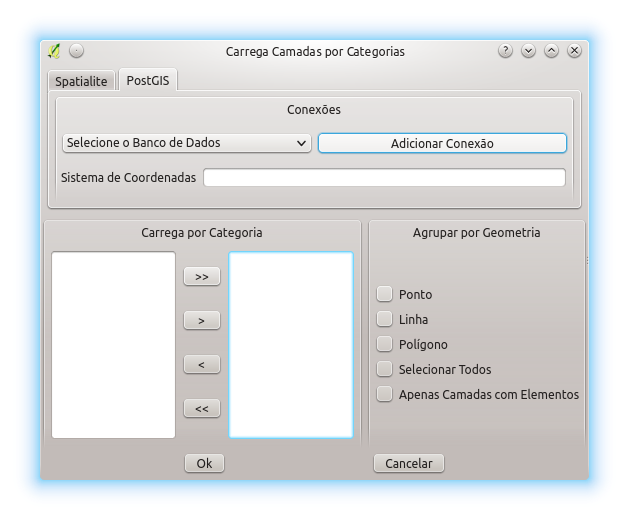
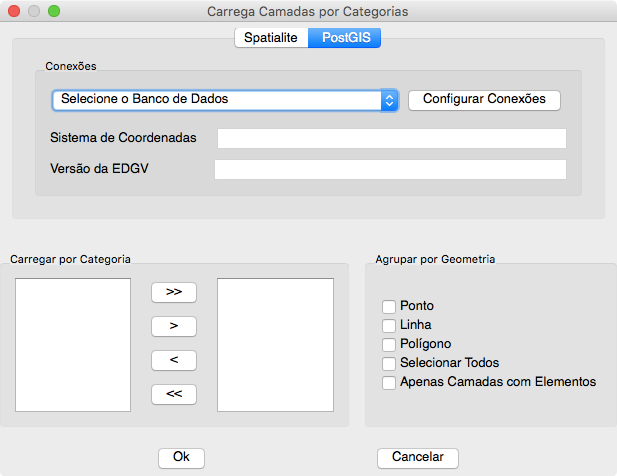
New help

diff --git a/help/explorar_servidor.html b/help/explorar_servidor.html
@@ -1,0 +1,84 @@
+<!DOCTYPE html PUBLIC "-//W3C//DTD XHTML 1.0 Transitional//EN" "http://www.w3.org/TR/xhtml1/DTD/xhtml1-transitional.dtd">
+<html xmlns="http://www.w3.org/1999/xhtml">
+<head>
+    <meta http-equiv="Content-Type" content="text/html; charset=utf-8" />
+    <meta charset="utf-8" />
+	<meta name="viewport" content="width=device-width, initial-scale=1">
+  	
+	<title>Catálogo de Servidores</title>
+    
+    <link rel="stylesheet" href="css/bootstrap.css">
+	<link rel="stylesheet" href="everydayimstyling.css" />
+</head>
+
+<body>
+	
+    <h2>
+    	Catálogo de Servidores <small>Explorar Servidor</small>
+    </h2>
+
+	<p align="justify">
+		Um administrador de bancos de dados pode desejar verificar informações de bancos de dados EDGV criados pelo DsgTools.
+        O <kbd>Explorar Servidor</kbd> permite que seja possível verificar quais modelos de permissões estão instalados nos bancos de dados,
+        permite verificar os detalhes de cada permissão e ainda permite que sejam apagados os bancos de dados.
+	</p>
+	<p align="justify">
+		A janela a seguir mostra o estado inicial da ferramenta.
+	</p>
+		
+	<p align="center">
+		<img src='dsg_tools/explorar_servidor01.png' name='figuras1' border=0 alt='Erro ao mostrar a imagem'>
+	</p>
+    
+    <p align="justify">
+    	Para utilizar basta ao administrador selecionar um servidor (vide figura abaixo) e entrar com as credenciais caso necessário. Caso não sejam fornecidas, ou usadas, credenciais de usuário
+        administrador, não é possível utilizar a ferramenta. Isso é foi feito para aumentar a segurança e integridade dos bancos de dados EDGV criados pelo DsgTools.
+    </p>
+    
+    <p align="center">
+		<img src='dsg_tools/explorar_servidor02.png' name='figuras1' border=0 alt='Erro ao mostrar a imagem'>
+	</p>
+
+    <p align="justify">
+    	Abaixo é possível ver a solicitação de credenciais de acesso caso não haja informação disso já guardada no servidor.
+    </p>
+
+    <p align="center">
+		<img src='dsg_tools/explorar_servidor03.png' name='figuras1' border=0 alt='Erro ao mostrar a imagem'>
+	</p>
+
+    <p align="justify">
+    	Abaixo é possível ver todos os bancos criados pelo DsgTools para um dado servidor.
+        Clicando em um dos bancos listados é possível ver quais usuários tem acesso ao banco em questão. Também é possível ver quais as permissões
+        de acesso do usuário em questão inspecionando a permissão a ele atribuida.
+    </p>
+
+    <p align="center">
+		<img src='dsg_tools/explorar_servidor04.png' name='figuras1' border=0 alt='Erro ao mostrar a imagem'>
+	</p>
+    
+    <p align="justify">
+    	Para se inspecionar uma permissão atribuida a um usuário deve-se clicar com o botão direito na permissão
+        desejada.
+    </p>
+    
+    <p align="center">
+		<img src='dsg_tools/explorar_servidor05.png' name='figuras1' border=0 alt='Erro ao mostrar a imagem'>
+	</p>
+    
+    <p align="justify">
+    	Abaixo pode-se ver os detalhes de uma permissão atribuida ao usuário selecionado.
+    </p>
+
+    <p align="center">
+		<img src='dsg_tools/explorar_servidor06.png' name='figuras1' border=0 alt='Erro ao mostrar a imagem'>
+	</p>
+
+    <p align="justify">
+    	Também é facultado ao administrador apagar bancos de dados que não sejam mais necessários. Para isso basta selecionar o
+        o banco que se deseja apagar e clicar em <kbd>Apagar Banco de Dados</kbd> e confirmar a sua escolha. Caso não haja problemas,
+        como outros usuários acessando o banco, uma mensagem de sucesso irá aparecer.
+    </p>
+
+</body>
+</html>

diff --git a/help/catalogo_servidores.html b/help/catalogo_servidores.html
@@ -1,0 +1,36 @@
+<!DOCTYPE html PUBLIC "-//W3C//DTD XHTML 1.0 Transitional//EN" "http://www.w3.org/TR/xhtml1/DTD/xhtml1-transitional.dtd">
+<html xmlns="http://www.w3.org/1999/xhtml">
+<head>
+    <meta http-equiv="Content-Type" content="text/html; charset=utf-8" />
+    <meta charset="utf-8" />
+	<meta name="viewport" content="width=device-width, initial-scale=1">
+  	
+	<title>Ferramentas de BD</title>
+    
+    <link rel="stylesheet" href="css/bootstrap.css">
+	<link rel="stylesheet" href="everydayimstyling.css" />
+</head>
+
+<body>
+	
+    <h2>
+    	Catálogo de Servidores
+    </h2>
+    
+	<p align="justify">
+		Abaixo podem ser acessadas as informações acerca das ferramentas de servidores existentes no DsgTools
+	</p>
+
+	<p align="center">
+    	<br />
+		<a type="button" class="btn btn-success" target="content_frame" href="servidores.html">
+	        Configurar Servidores
+        </a>
+	
+		<a type="button" class="btn btn-success" target="content_frame" href="explorar_servidor.html">
+	        Explorar Servidor
+        </a>
+	</p>
+
+</body>
+</html>

diff --git a/help/configurador_conexoes.html b/help/configurador_conexoes.html
@@ -26,7 +26,7 @@
     </p>
 
     <p align="justify">
-        Para que uma nova conexão seja adicionada basta clicar em <kbd>Adicionar Conexão</kbd>. Desta forma, a janela seguinte aparecerá 
+        Para que uma nova conexão seja adicionada basta clicar em <kbd>Configurar Conexão</kbd>. Desta forma, a janela seguinte aparecerá
         permitindo a adição.
     </p>
 
@@ -47,6 +47,11 @@
 
     <p align=center>
         <img src='dsg_tools/adicionar_conexoes1.png' name='figuras1' width=500 height=500 alt='Erro ao mostrar a imagem'>
+    </p>
+
+    <p align="justify">
+        Também é possível que sejam removidas registros de bancos que não existem mais. Para tanto basta clicar em
+        <kbd>Remover Conexões para Banco de Dados Faltantes</kbd> para que as conexões sejam adicionadas.
     </p>
 
 </body>

diff --git a/help/postgis.html b/help/postgis.html
@@ -31,7 +31,7 @@
 
     <li>
         <p align="justify">
-            escolha de um servidor previamente cadastrado (<kbd>Servidor:</kbd>);
+            escolha de um servidor previamente cadastrado (<kbd>Servidor:</kbd>) ou crie um clicando em <kbd>Configurar Servidor</kbd>;
         </p>
     </li>
     <li>
@@ -51,7 +51,7 @@
     </li>
     
     <p align=center>
-        <img src='dsg_tools/postgis.bmp' name='figuras1' width=298 height=285 alt='Erro ao mostrar a imagem'>
+        <img src='dsg_tools/criar_postgis.png' name='figuras1' width=298 height=285 alt='Erro ao mostrar a imagem'>
     </p>
 	
 	<br>

diff --git a/help/index.html b/help/index.html
@@ -56,7 +56,7 @@
                             Home
                         </a>
                         
-                        <a type="button" class="btn btn-success btn-block" target="content_frame" href="servidores.html">
+                        <a type="button" class="btn btn-success btn-block" target="content_frame" href="catalogo_servidores.html">
                             Catálogo de Servidores
                         </a>
                         

diff --git a/help/ferramentas_camada.html b/help/ferramentas_camada.html
@@ -29,7 +29,7 @@
    
         <a type="button" class="btn btn-success" target="content_frame" href='moldura.html'>Criar Moldura</a>
 
-        <a type="button" class="btn btn-success" target="content_frame" href='configurador_conexoes.html'>Adicionar Conexão</a>
+        <a type="button" class="btn btn-success" target="content_frame" href='configurador_conexoes.html'>Configurar Conexão</a>
     </p>
 	
 	<br>

diff --git a/help/servidores.html b/help/servidores.html
@@ -14,7 +14,7 @@
 <body>
 	
     <h2>
-    	Catálogo de Servidores <small>Visualizar Servidor</small>
+    	Catálogo de Servidores <small>Configurar Servidor</small>
     </h2>
 
     <p align=justify>
